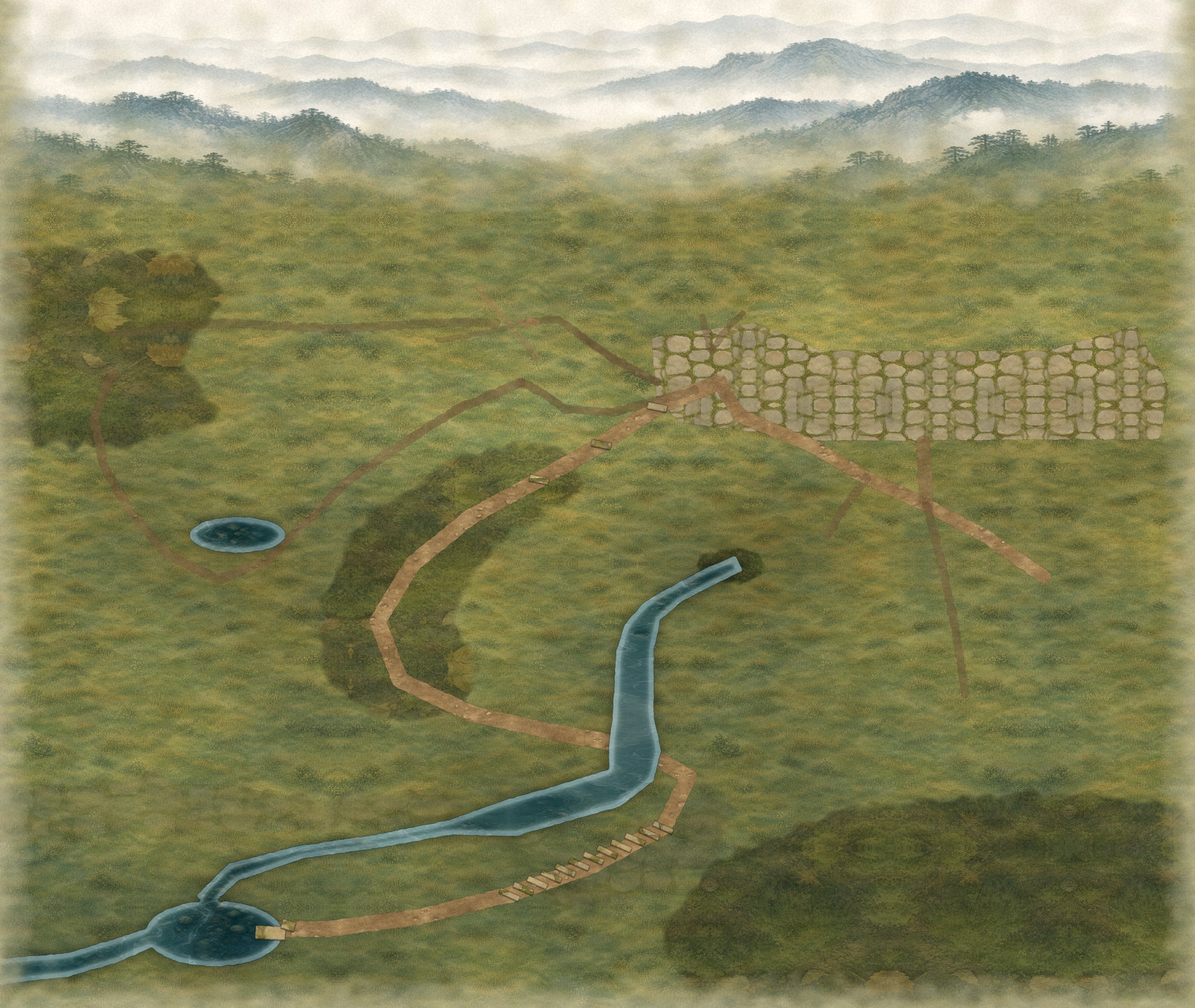
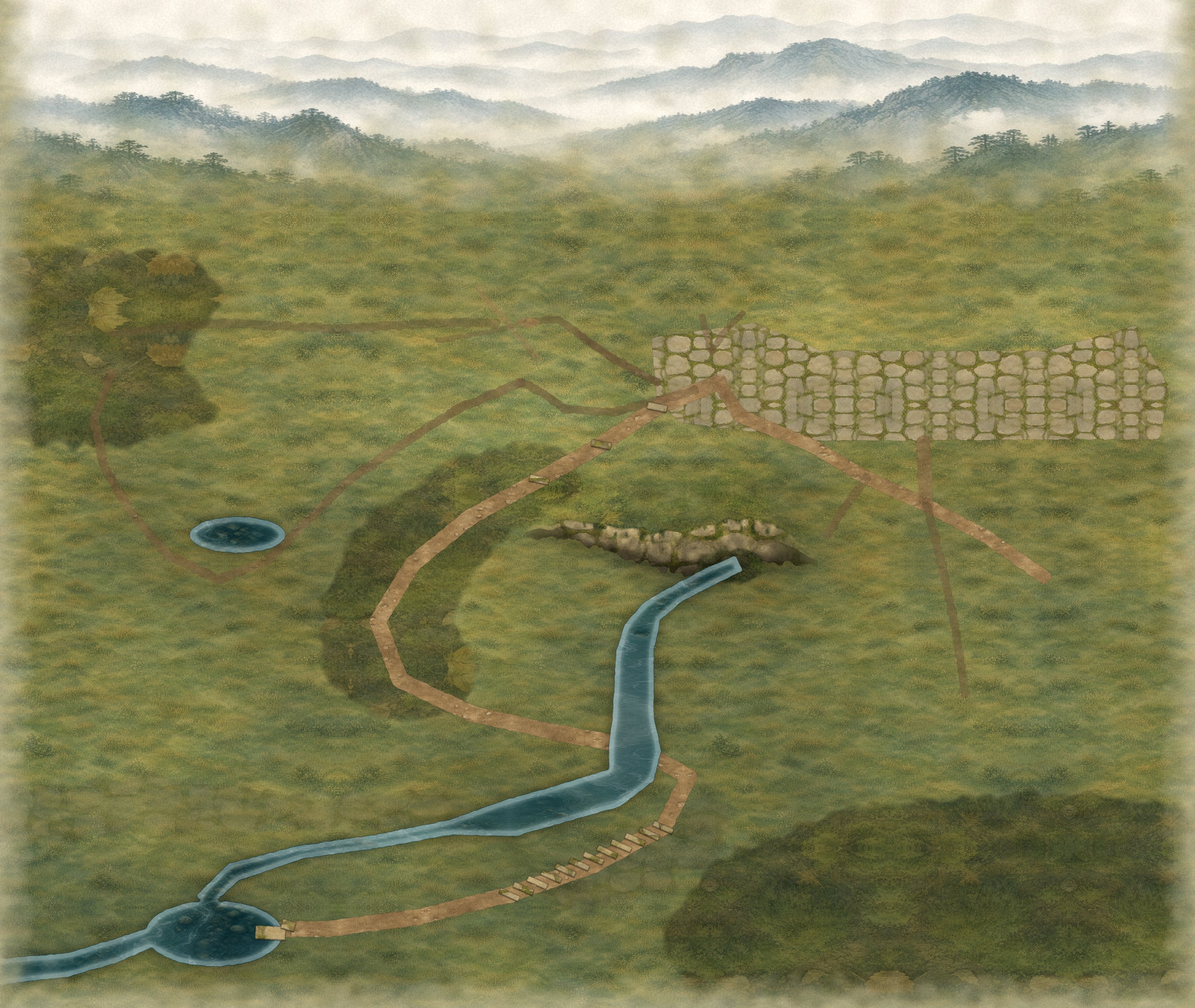
SCENE-03 P2：泉口接入連續林谷崖坡（純視覺地表＋崖頂林木／崖腳岩層，Refs #182）
- layout.mjs 新增純視覺 SPRING_BANK（崖頂緣＋落差），西接竹林林地、經泉口、東收進院南坡草地
- bake.py 3b 段烘入崖頂林下苔坡→塊面岩壁→崖腳濕陰（獨立亂數，其餘地面逐像素不變），保留泉口濕痕匯流
- 崖頂加松／闊葉樹與蕨叢、崖腳加 3 塊既有 rock_ledge；spring_cliff 圖與位置、路線、端點、世界幾何、水文、存檔皆未動
- 證據：design/scene03/shots/09-spring-bank-p2.jpg（同遊戲實跑泉口視角）

Changed region(s): [[0.4375, 0.4667, 0.6875, 0.5911]]

diff --git a/sect-chronicle/experiments/water-carry/design/scene03/source/bake.py b/sect-chronicle/experiments/water-carry/design/scene03/source/bake.py
@@ -1,6 +1,6 @@
 # SCENE-03 地面烘焙（D37 bake.py 衍生）：geometry.json（權威路線＋296 最終接受巡山 LEAD/MAIN＋視覺佈局）＋貼圖 → 3200×2700 水彩地面（2×）。
 # 用法（design/scene03）：node source/dump-geometry.mjs（於 water-carry 目錄）之後 python3 source/bake.py
-# 新增：林谷山壁泉口濕痕匯流→上游溪→權威溪段→深潭→下游出圖；西坡巡山淡徑與坡面明暗；預留地村路。來源只讀：art184-watercolor/raw、art184-production/ground。
+# 新增：林谷山壁泉口（P2：連續崖坡 SPRING_BANK）濕痕匯流→上游溪→權威溪段→深潭→下游出圖；西坡巡山淡徑與坡面明暗；預留地村路。來源只讀：art184-watercolor/raw、art184-production/ground。
 import json, numpy as np
 from PIL import Image, ImageDraw, ImageFilter
 from scipy import ndimage as nd
@@ -58,6 +58,33 @@ for poly in G['ROCKY']:
 # SCENE-03 西坡（巡山段）坡面：上坡亮、坳底暗，泉口林谷陰面
 for x, y, rx, ry, k in G['WASHES'] + [[300, 640, 260, 150, -0.07], [420, 560, 200, 80, 0.05], [360, 790, 120, 60, -0.08], [1000, 740, 110, 60, -0.14], [920, 800, 120, 60, -0.08]]:
     e = nd.gaussian_filter(ellm(x, y, rx, ry), 50 * S); img = mul(img, 1 + k * e / max(e.max(), 1e-6))
+# 3b SCENE-03 P2：泉口背後的連續林谷崖坡（崖頂林下苔坡→岩面→崖腳濕陰）。另用獨立亂數，其餘地面逐像素不變。
+_rng0 = rng; rng = np.random.default_rng(1823)
+B = G['SPRING_BANK']; rx_ = [p[0] for p in B['rim']]; ry_ = [p[1] for p in B['rim']]
+X = np.arange(W, dtype=np.float32) / S; Y = yy * H / S
+rimY = np.interp(X, rx_, ry_)[None, :] + noise(14 * S, 3.0); drop = np.interp(X, rx_, B['drop'], left=0, right=0)[None, :]
+inx = np.clip(np.minimum(X - rx_[0], rx_[-1] - X) / 70, 0, 1)[None, :] ** 0.8
+u = (Y - rimY) / np.maximum(drop, 1)                     # 0＝崖頂緣，1＝崖腳
+jag = noise(10 * S, 0.16) + noise(4 * S, 0.05)
+face = np.clip((np.minimum(u, 1 + jag - u) * np.maximum(drop, 1)) / 2.0 + 0.5, 0, 1) * (drop > 2) * inx
+# 崖頂林下苔坡：從崖緣往北漸淡（不是一塊黑斑）
+d_up = np.clip((rimY - Y) / (60 + 1.2 * drop), 0, 1)
+plat = (Y < rimY) * (1 - d_up) ** 1.3 * inx
+plat = np.clip(nd.gaussian_filter(plat, 6 * S) * (1 + noise(20 * S, 0.5)), 0, 1)
+img = over(img, np.clip(ft * np.array([0.98, 1.06, 0.84], np.float32) * 1.08, 0, 1), plat * 0.55)
+# 岩面：低頻雜訊量化成塊面（光面／陰面），往下變暗，上半掛苔
+fac = np.floor((noise(9 * S, 1.0) + 1) * 2.5) / 5
+uu = np.clip(u, 0, 1)
+shade = (1.2 - 0.46 * uu) * (0.78 + 0.32 * fac) * (1 + noise(2 * S, 0.06))
+rcol = np.clip(rock * np.array([0.86, 0.83, 0.74], np.float32) * shade[..., None], 0, 1)
+moss = np.clip((noise(7 * S, 1.0) - 0.05 - 1.2 * uu) * 1.6, 0, 1) * 0.65
+rcol = over(rcol, ft * np.array([0.62, 0.8, 0.55], np.float32), moss)
+img = over(img, rcol, face); img = mul(img, 1 - 0.3 * ink_edge(face) * (Y > rimY + 0.4 * drop))
+lip = np.clip(1 - np.abs(Y - rimY) / 3.0, 0, 1) * inx * (drop > 2); img = over(img, ft * np.array([1.0, 1.08, 0.8], np.float32), lip * 0.55)
+# 崖腳濕陰（與泉口濕痕連成一片）
+sh = np.clip((Y - rimY - drop) / 26, 0, 1); sh = (1 - sh) * (Y > rimY + drop * 0.8) * np.clip(drop / 20, 0, 1) * inx
+img = mul(img, 1 - 0.34 * nd.gaussian_filter(sh, 4 * S))
+rng = _rng0
 # 4 遠山（北緣）：霧中群山漸隱入院後草坡
 mt = Image.open(RAW + 'far-mountains.jpg').convert('RGB').crop((0, 50, 1280, 470)).resize((W, 620), Image.LANCZOS)
 mt = np.asarray(mt).astype(np.float32) / 255; band = np.zeros_like(img); band[:620] = mt

diff --git a/sect-chronicle/experiments/water-carry/design/scene03/README.md b/sect-chronicle/experiments/water-carry/design/scene03/README.md
@@ -6,7 +6,7 @@
 - `raw/*.jpg`：GenerateImage 生成的綠幕素材表（泉崖、瀑布、取水台、預留宿舍/工棚、晾架、岩階、路標、蘆葦、踏石）。本專案自行生成，無第三方素材，可隨倉庫授權使用。
 - `source/cut.py`（Pillow/numpy）：綠幕去背 → `sprites/`、`manifest-cut.json`。
 - `source/dump-geometry.mjs`、`uses.mjs`：從唯讀模型匯出路線/巡山/水道幾何並檢查道具壓路（僅剩既有 stone_bench 警告）。
-- `source/bake.py`（numpy/scipy/Pillow，衍生自 D37）：烘焙 3200×2700 地面：泉口濕痕、上游溪、出水離圖、巡山小徑、預留地村路、西坡渲染。約 2.3 分鐘。
+- `source/bake.py`（numpy/scipy/Pillow，衍生自 D37）：烘焙 3200×2700 地面：泉口濕痕、上游溪、出水離圖、巡山小徑、預留地村路、西坡渲染；P2 修補 3b 段烘入泉口背後連續林谷崖坡（`layout.mjs` 的 `SPRING_BANK` 崖頂緣＋落差，獨立亂數，其餘地面逐像素不變）。約 2.3 分鐘。
 - `source/prep.py`：輸出 `demo/assets/scene03/`（ground.jpg、10 張新 PNG、manifest 41 筆；沿用 D35/D37 檔以 `../art184-watercolor/` 引用）。
 
 ## 採用 / 暫緩
@@ -15,3 +15,7 @@
 
 ## 驗證
 桌面單流程（臨時埠、1440×900）：巡山至西坡、暫停穩定、表親過橋取水至泉口、巡山回報；console 0 錯誤。截圖見 `shots/`。
+
+## P2 修補（泉口崖坡支撐）
+- 純視覺：`SPRING_BANK`（西接竹林林地、經泉口、東收進院南坡草地）烘成崖頂林下苔坡→塊面岩壁→崖腳濕陰，泉口濕痕匯流保留；崖頂加松／闊葉樹與蕨叢，崖腳加 3 塊既有 `rock_ledge`。`spring_cliff` 圖檔、位置與一切路線／端點／世界幾何未動。
+- 證據：`shots/09-spring-bank-p2.jpg`（同一遊戲實跑、4× 後切「泉口」視角暫停，1440×900，console 0 錯誤）。`shots/01`、`06` 為修補前畫面，保留作對照。
